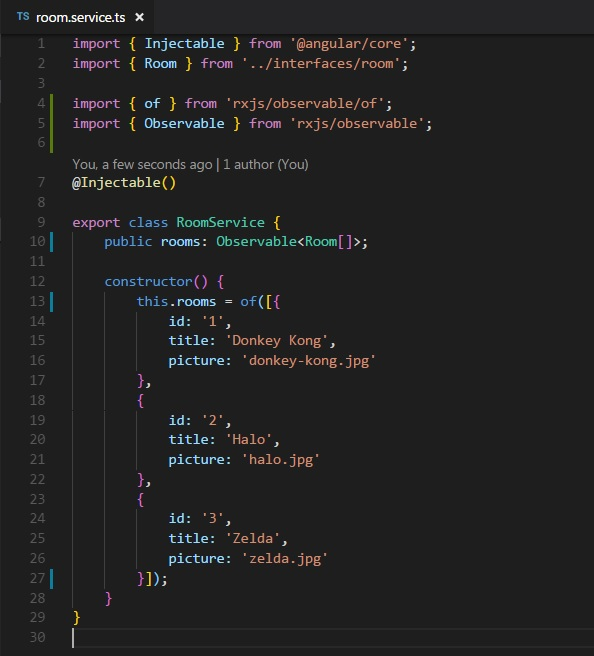
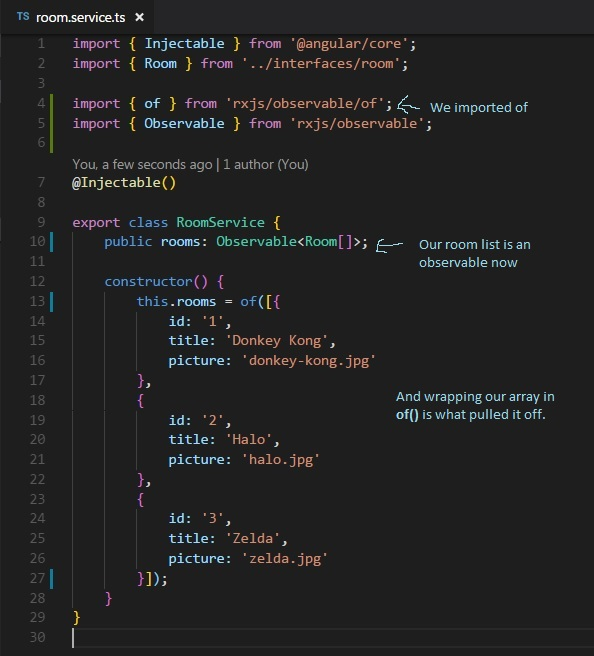
finished lesson 22

diff --git a/22-observable-of.html b/22-observable-of.html
@@ -19,10 +19,10 @@
         <p>import { of } from 'rxjs/observable/of';</p>
     </div>
     <p>Next, let's change the type of our array from an array of rooms to an Observable array of rooms.</p>
-    <!-- image of type -->
     <p>Our linter gets mad now because it's expecting our array to be an observable, but it's not. Let's fix that.</p>
     <p>Finally, wrap our array in the rxjs <b>of</b> operator like so.</p>
     <p>That's it. Yes, by just wrapping our data in an <b>of</b>, we've transformed it from a static value into an observable.</p>
+    <img src="img/22-room-service.jpg" alt="">
     <div class="lucky-box">
         <div class="lucky-up-bg"></div>
         <p>That's it? Is the next part gonna be this easy?</p>
@@ -45,73 +45,73 @@
     <div class="codebox">
         <p>this._roomService.rooms.pipe()</p>
     </div>
-    <p>So farm so good. Lets begin our <b>rxjs map</b> and get ready to transform our rooms into navItems.</p>
+    <p>So far so good. Lets begin our <b>rxjs map</b> and get ready to transform our rooms into navItems.</p>
     <div class="codebox">
         <p>this._roomService.rooms.pipe(</p>
         <p class="ind1 highlight">map()</p>
         <p>)</p>
     </div>
     <p>So inside our <b>rxjs map</b> will go our transformation, where we utilized <b>Array.map:</b></p>
+    <p>NOTE: Because we are using shorthand on the array function for our <b>rxjs/map</b>, the resulting line will be implicitly returned. You may have used the standard () => {} notation and returned the result of our <b>Array.map</b> which is totally fine.</p>
     <div class="codebox">
         <p>this._roomService.rooms.pipe(</p>
-        <p class="ind1">map( <span class="highlight">rooms => {</span></p>
-        <p class="ind2 highlight">rooms.map(eachRoom => {</p>
+        <p class="ind1">map( <span class="highlight">rooms => rooms.map(eachRoom => { </span></p>
+        <p class="ind2 highlight"></p>
         <p class="ind2">})</p>
-        <p class="ind1">})</p>
+        <p class="ind1">)</p>
         <p>)</p>
     </div>
     <p>Our transformation technique will be the same thing:</p>
-    <p>So inside our <b>rxjs map</b> will go our transformation, where we utilized <b>Array.map:</b></p>
+    <p>Use <b>Array.map to transform our Rooms into NavigationItems</b></p>
     <div class="codebox">
         <p>this._roomService.rooms.pipe(</p>
-        <p class="ind1">map(rooms => {</p>
-        <p class="ind2">rooms.map(eachRoom => {</p>
-        <p class="ind3 highlight">return {</p>
-        <p class="ind4 highlight">title: eachRoom.title</p>
-        <p class="ind4 highlight">title: 'room/' + eachRoom.id</p>
+        <p class="ind1">map(rooms =>  rooms.map(eachRoom => { </p>
+        <p class="ind2 highlight">return {</p>
+        <p class="ind3 highlight">title: eachRoom.title</p>
+        <p class="ind highlight">title: 'room/' + eachRoom.id</p>
         <p class="ind3 highilght">}</p>
         <p class="ind2">})</p>
-        <p class="ind1">})</p>
+        <p class="ind1">)</p>
         <p>)</p>
     </div>
-    <p>That consolues our transformation. It's a little weird to look at because we are using <i>Array.map</i> inside <i>rxjs/map</i>. With all these maps, you'd think I was building an atlas. Bad map jokes aside, we've handled our transformation. Lets throw some types on our variables inside there to help us understand what is going on:</p>
+    <p>That completes our transformation. It's a little weird to look at because we are using <i>Array.map</i> inside <i>rxjs/map</i>. With all these maps, you'd think I was building an atlas. Bad map jokes aside, we've handled our transformation. Lets throw some types on our variables inside there to help us understand what is going on:</p>
     <div class="codebox">
         <p>this._roomService.rooms.pipe(</p>
-        <p class="ind1">map( (rooms<span class="highlight">:Room[]</span>) => {</p>
-        <p class="ind2">rooms.map( (eachRoom<span class="highlight">:Room</span>) => {</p>
+        <p class="ind1">map( (rooms<span class="highlight">:Room[]</span>) => rooms.map( (eachRoom<span class="highlight">:Room</span>) => {</p>
+        <p class="ind2"></p>
         <p class="ind3">return {</p>
         <p class="ind4">title: eachRoom.title</p>
         <p class="ind4">title: 'room/' + eachRoom.id</p>
         <p class="ind3">}</p>
         <p class="ind2">})</p>
-        <p class="ind1">})</p>
+        <p class="ind1">)</p>
         <p>)</p>
     </div>
     <p>So we take our initial value going into the pipe as an array of rooms, then array.map it passing the value of each room. We <b>should</b> have a value type Navigation Item if we subscribe after the pipe. Lets check it out:</p>
     <div class="codebox">
         <p>this._roomService.rooms.pipe(</p>
-        <p class="ind1">map( (rooms:Room[]) => {</p>
-        <p class="ind2">rooms.map( (eachRoom:Room) => {</p>
+        <p class="ind1">map( (rooms:Room[]) => rooms.map( (eachRoom:Room) => {</p>
+        <p class="ind2"></p>
         <p class="ind3">return {</p>
         <p class="ind4">title: eachRoom.title</p>
         <p class="ind4">title: 'room/' + eachRoom.id</p>
         <p class="ind3">}</p>
         <p class="ind2">})</p>
-        <p class="ind1">})</p>
+        <p class="ind1">)</p>
         <p>)<span class="highlight">.subscribe( (navItems:NavigationItem[]) => {</span></p>
         <p class="highlight">});</p>
     </div>
     <p>So if you're linter isn't bugging out on the navItems being of a type navigation item, you're good! We did the transformation and typed our result just to make sure the result is exactly what we wanted. Now that we have our two array, we can use the same for..of technique to combine them.</p>
     <div class="codebox">
         <p>this._roomService.rooms.pipe(</p>
-        <p class="ind1">map( (rooms:Room[]) => {</p>
-        <p class="ind2">rooms.map( (eachRoom:Room) => {</p>
+        <p class="ind1">map( (rooms:Room[]) => rooms.map( (eachRoom:Room) => {</p>
+        <p class="ind2"></p>
         <p class="ind3">return {</p>
         <p class="ind4">title: eachRoom.title</p>
         <p class="ind4">title: 'room/' + eachRoom.id</p>
         <p class="ind3">}</p>
-        <p class="ind2">});</p>
-        <p class="ind1">});</p>
+        <p class="ind2">})</p>
+        <p class="ind1">)</p>
         <p>).subscribe( (navItems:NavigationItem[]) => {</p>
         <p class="ind1 highlight">for (const eachItem of navItems) {</p>
         <p class="ind2 highlight">this.navArr.push(eachItem);</p>
@@ -134,14 +134,14 @@
     <p>One rule you should remember, if you create a subscription, you need to unsubscribe somewhere. You can either use <b>rxjs/take</b>, or throw an unsubscribe inside a method like <b>onDestroy</b>. Since we're using a bunch of rxjs already, I'll go with take.</p>
     <div class="codebox">
         <p>this._roomService.rooms.pipe(</p>
-        <p class="ind1">map( (rooms:Room[]) => {</p>
-        <p class="ind2">rooms.map( (eachRoom:Room) => {</p>
+        <p class="ind1">map( (rooms:Room[]) => rooms.map( (eachRoom:Room) => {</p>
+        <p class="ind2"></p>
         <p class="ind3">return {</p>
         <p class="ind4">title: eachRoom.title</p>
         <p class="ind4">title: 'room/' + eachRoom.id</p>
         <p class="ind3">}</p>
-        <p class="ind2">});</p>
-        <p class="ind1">});</p>
+        <p class="ind2">})</p>
+        <p class="ind1">), <span class="highlight-red"><-- don't forget the comma</span> </p>
         <p class="ind1 highlight">take(1); <span class="highlight-red"><--- I imported take up top. You should too.</span></p>
         <p>).subscribe( (navItems:NavigationItem[]) => {</p>
         <p class="ind1">for (const eachItem of navItems) {</p>
@@ -150,7 +150,7 @@
     </div>
     <p>Now we're done! Whew! One nice thing about all that business we just did is that when we implement firebase, since we're already handling an observable of rooms from our service, it'll be a breeze.</p>
     <p>Here is a screenshot of my navigation.component.ts, just to make sure we're square.</p>
-    <!-- nav component ss -->
+    <img src="img/22-nav-component.jpg" alt="nav component ss">
     <footer>
         <a href="21-child-routes.html">&lt;&lt; 21 - Child Routes</a>
         <a href="index.html">Back to list</a>
